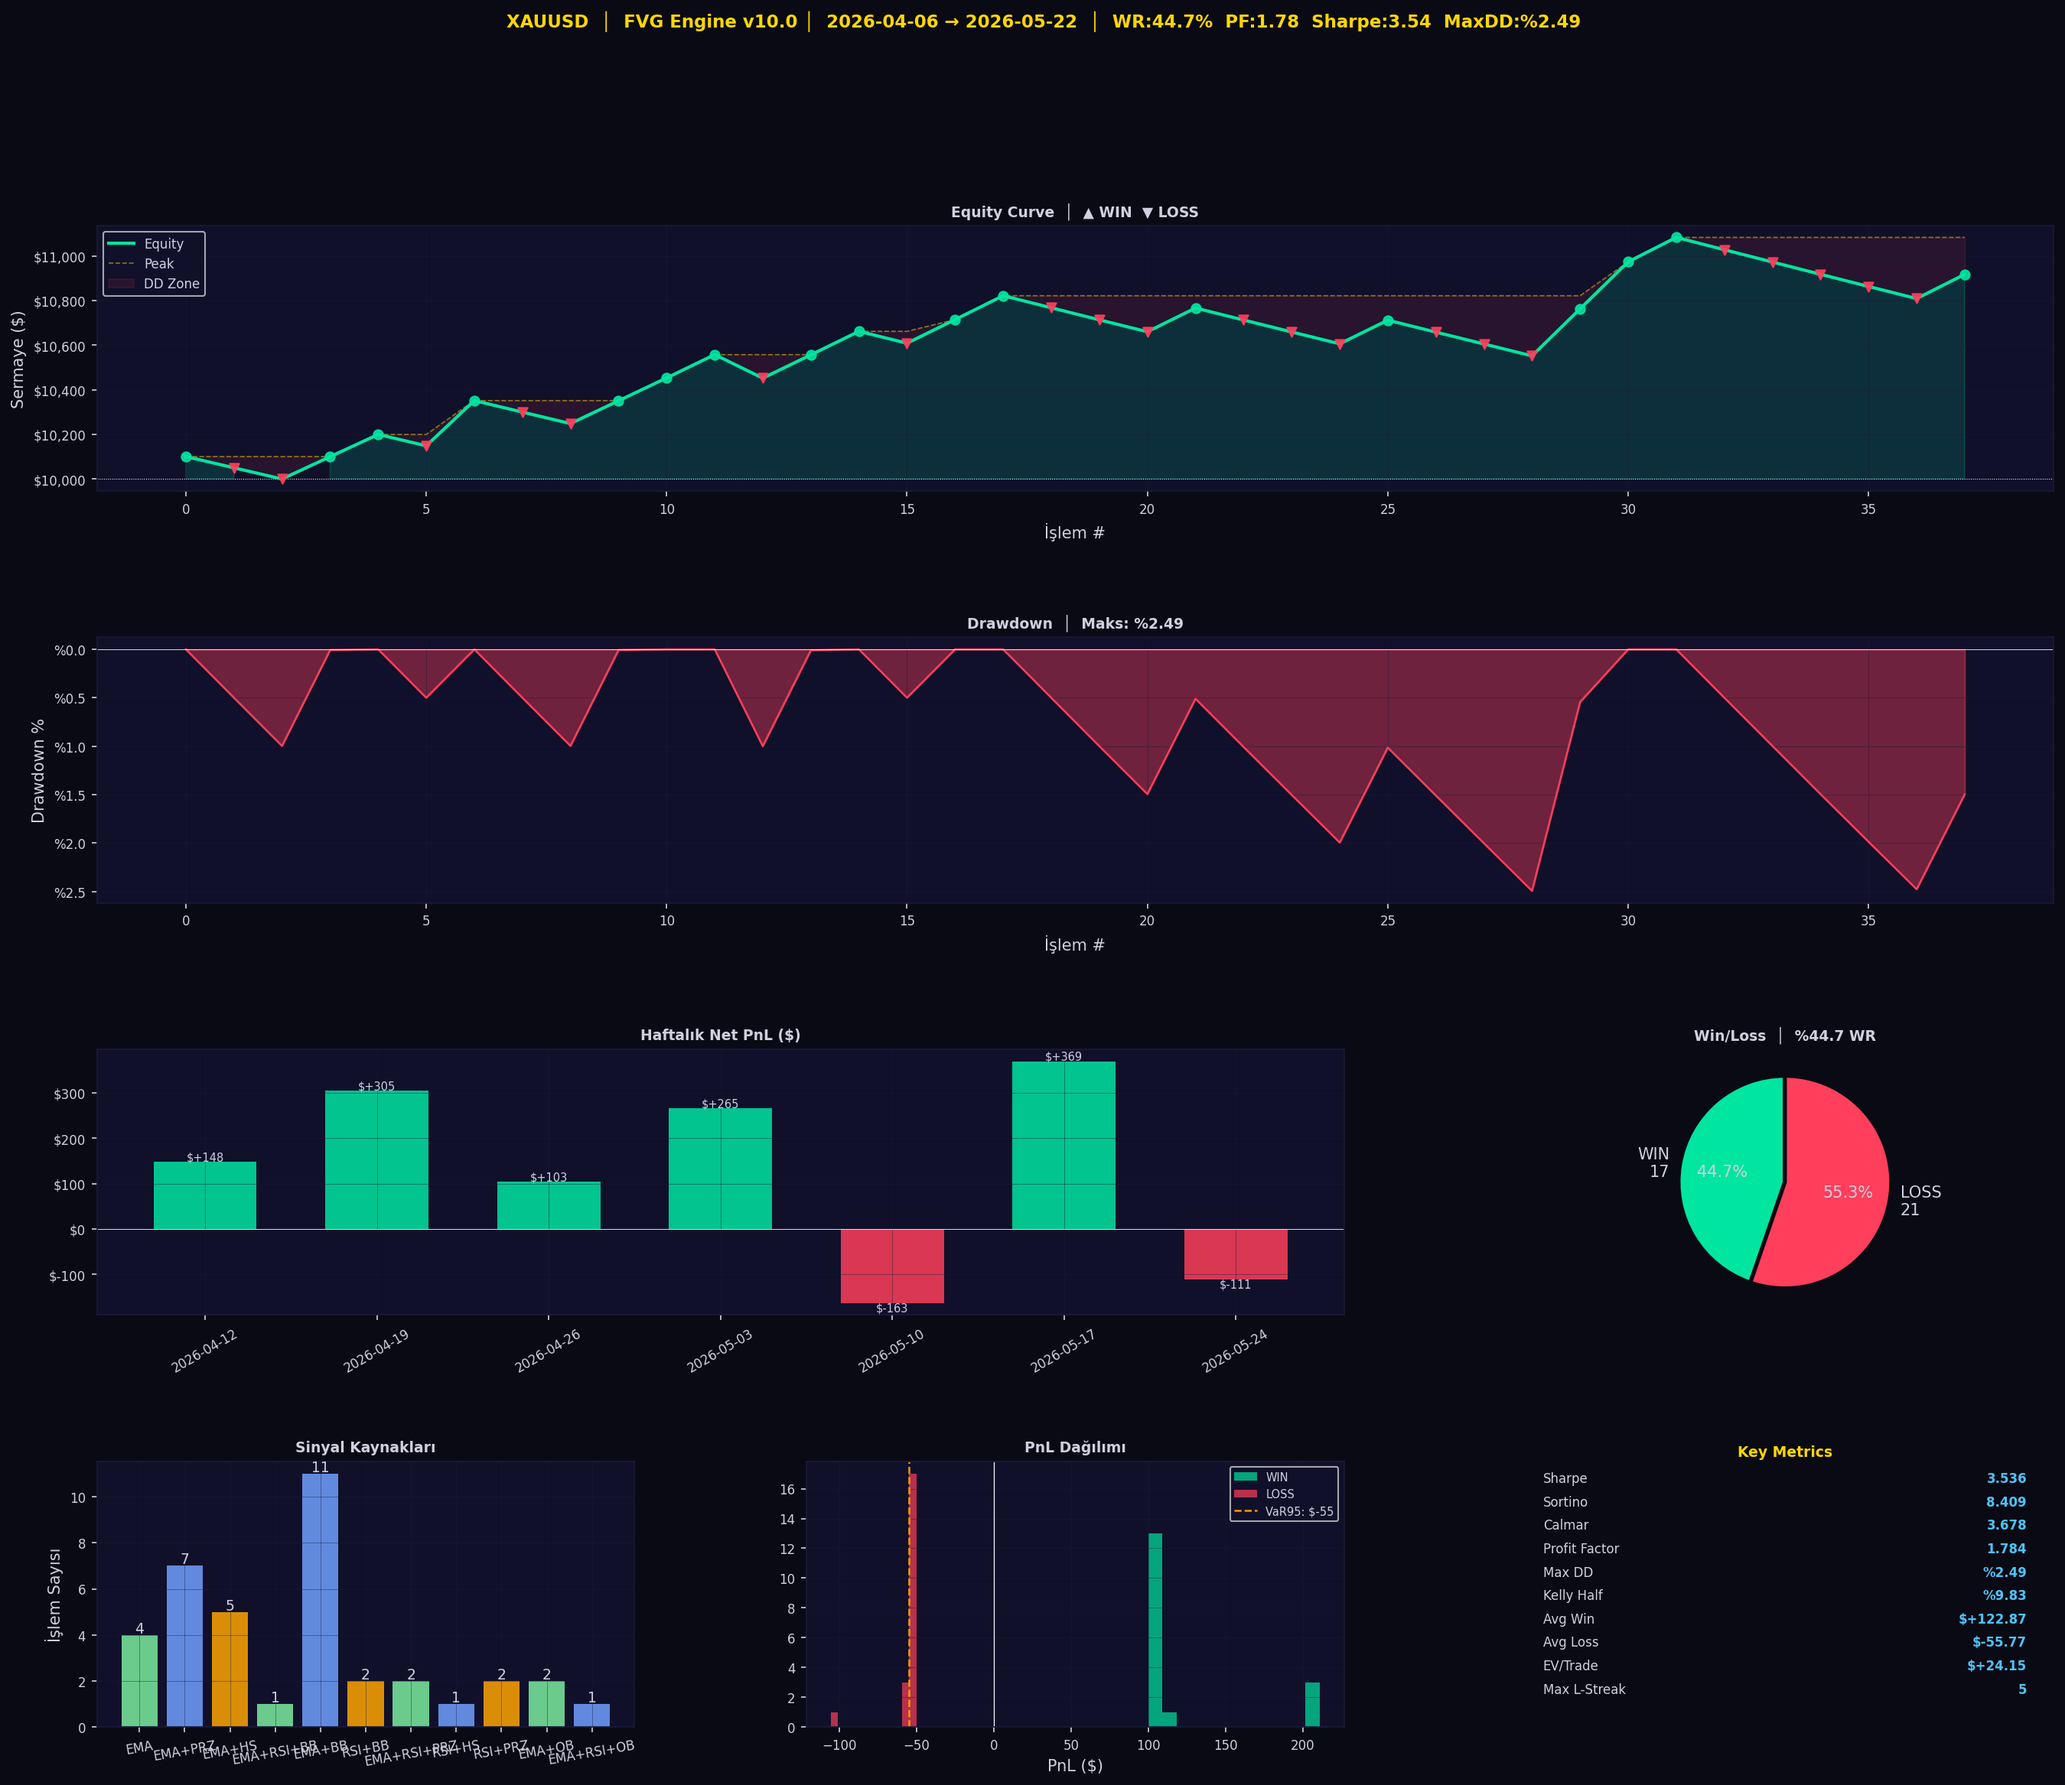
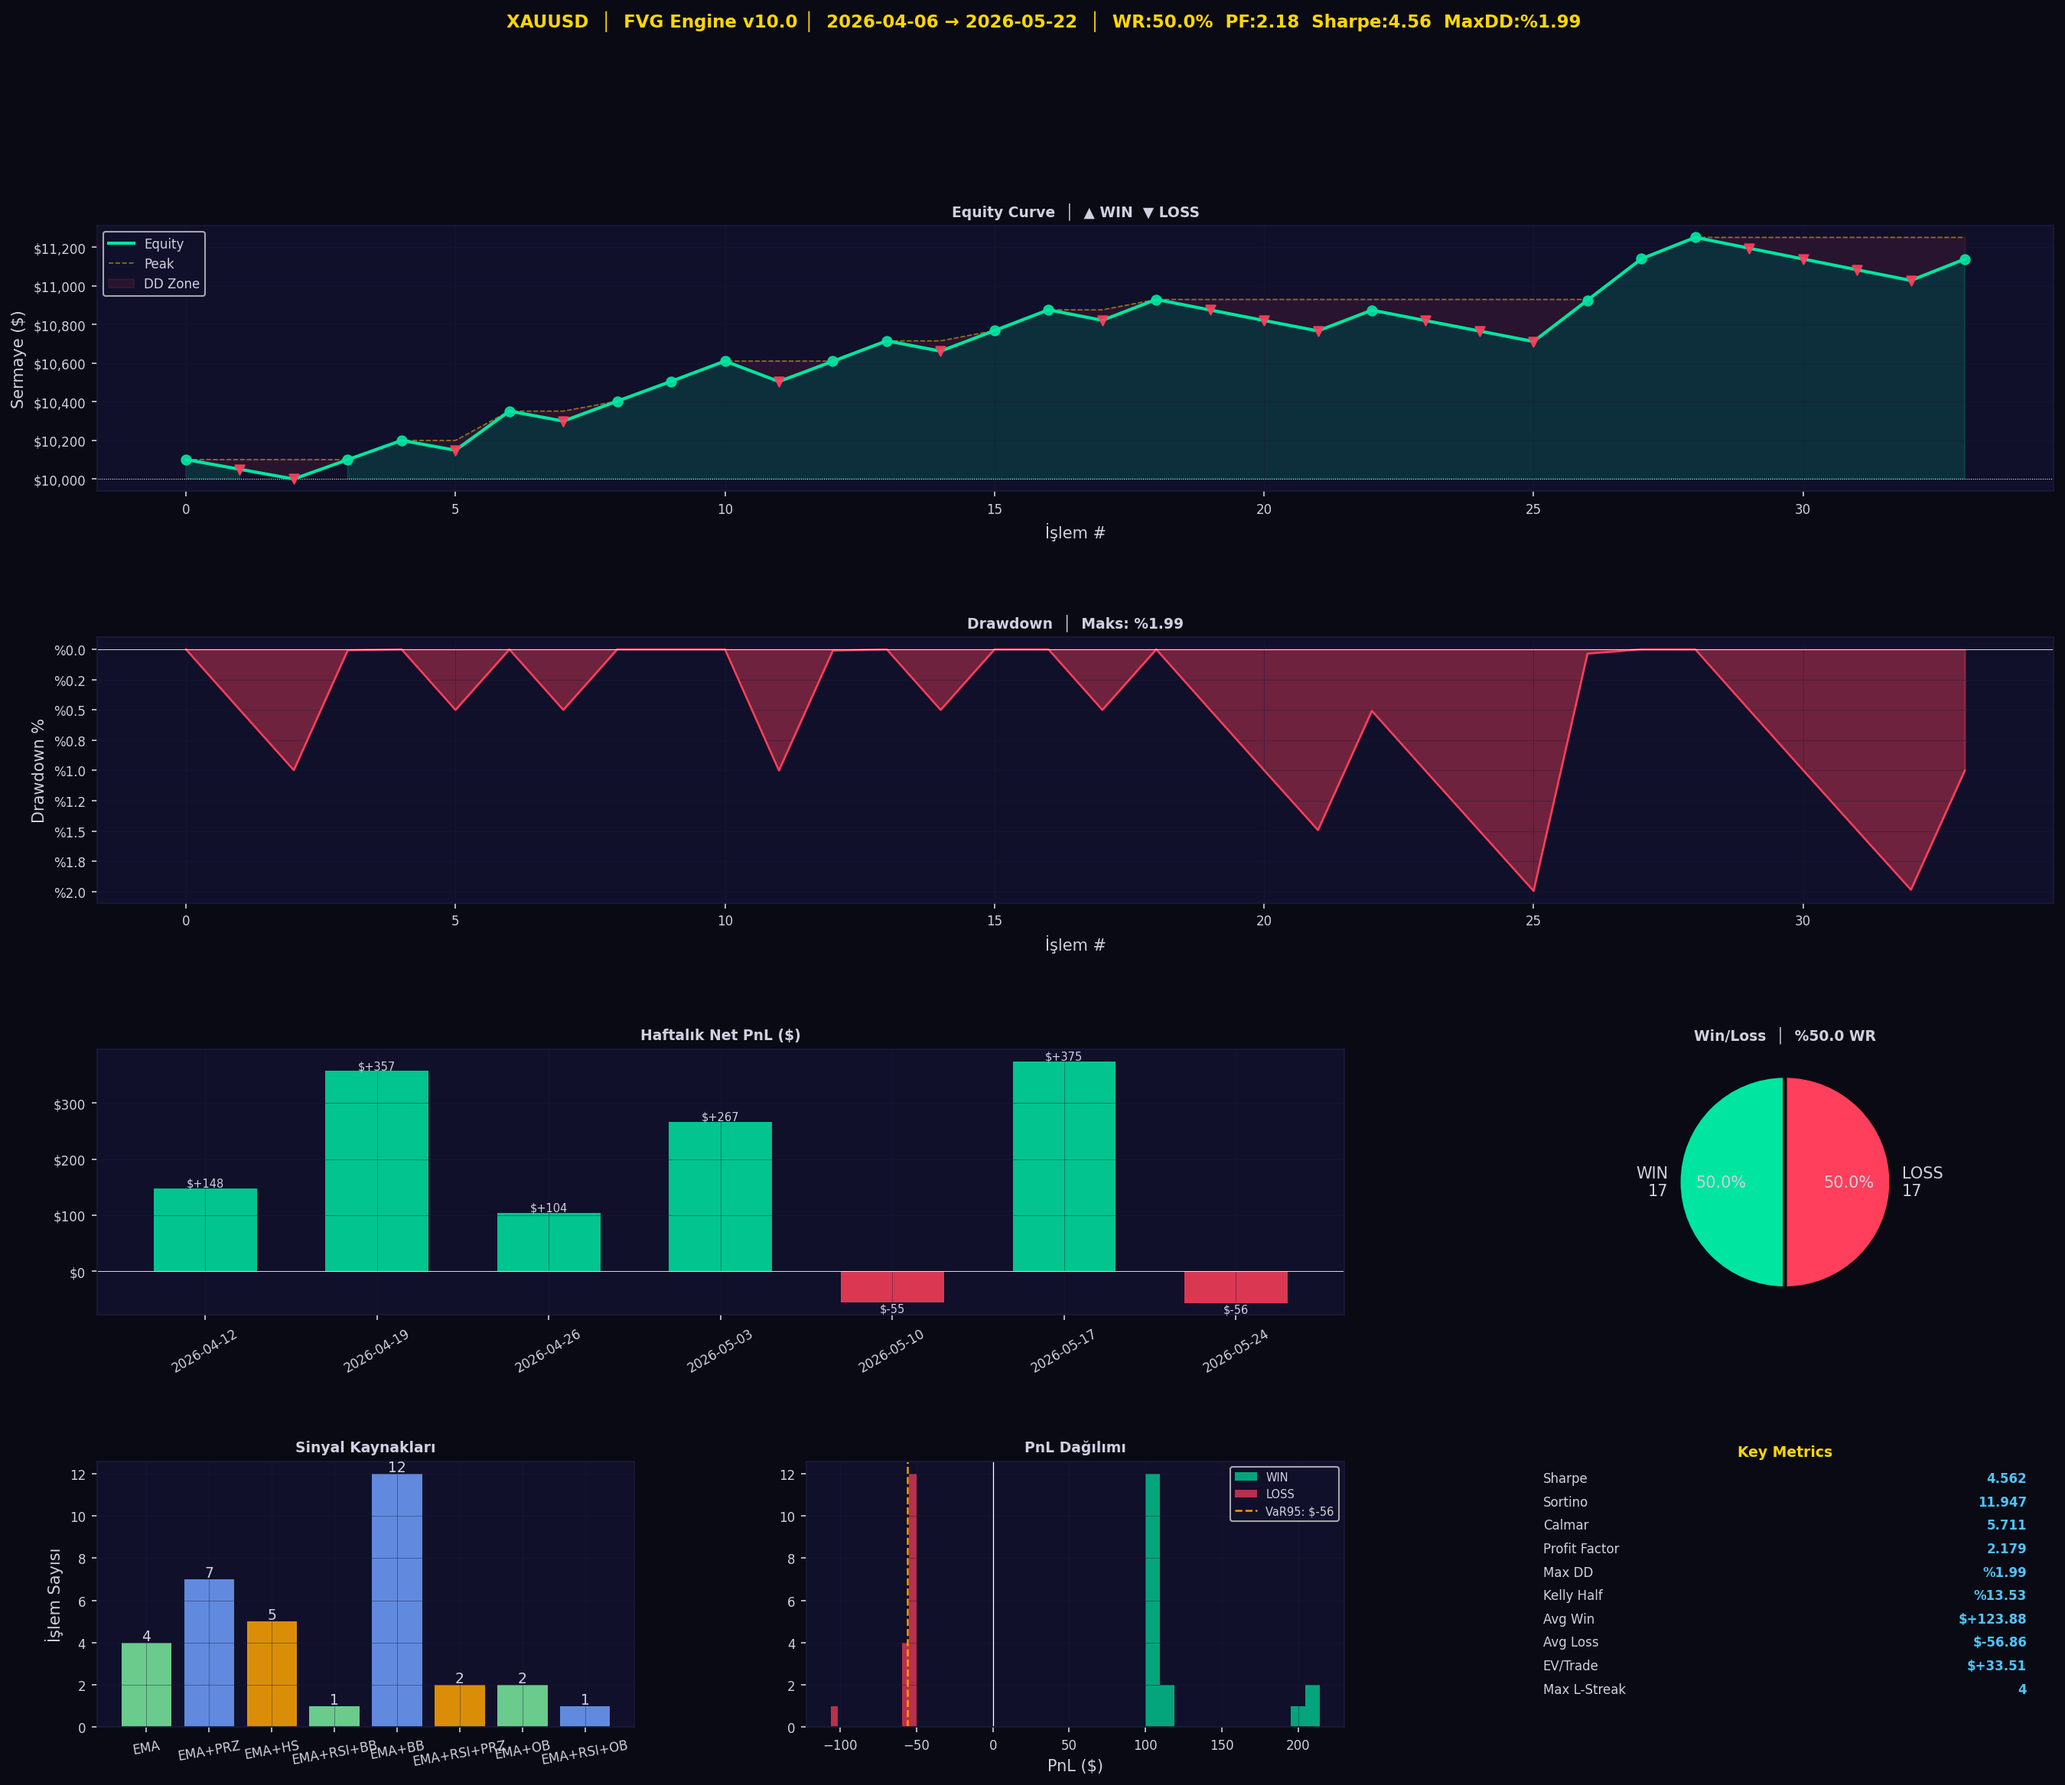
filter: EMA100+200 mandatory (price must be above/below BOTH) + revert period 233→200
Changed bias_main to require ema_ok unconditionally (no longer OR with RSI).
RSI now only affects risk sizing (1R vs 0.5R) but not trade entry gate.
Reverted EMA period from 233 back to 200 (results nearly identical).

Rule: bull trades only when 5M close > EMA100 AND > EMA200.
      bear trades only when 5M close < EMA100 AND < EMA200.

Results (daily 1:2 fix): 38 trades, 55.3% WR, +$1535, Sharpe=5.30
Best: daily 1:1 → 43 trades, 76.7% WR, +$1379, MaxDD=1.00%

https://claude.ai/code/session_01P9iUk1kdRV6S9xwppVeXcb

diff --git a/xauusd_fvg_engine_v10.py b/xauusd_fvg_engine_v10.py
@@ -1635,10 +1635,10 @@ class MarketBrain:
             div_type, div_str = self.rsi_divergence(
                 C[sl_:idx + 1], RSI[sl_:idx + 1], atr_win)
             rsi_ok = (div_type == direction)
-            bias_main = bias_allows and (ema_ok or rsi_ok)
+            # EMA100 ve EMA233 ikisi de kesin şart (price > her iki EMA bull için,
+            # her ikisinin altında bear için). RSI ek konfluens; risk boyutunu etkiler.
+            bias_main = bias_allows and ema_ok
 
-            # Hem gerçek 1H FVG hem harmonik PRZ POI'leri yalnız bias_main
-            # (EMA/RSI + haftalık bias) ile işlem açar. (Senaryo-1 kaldırıldı.)
             if not bias_main:
                 continue                                       # konfluens yok → bekle
             stage = max(stage, 2)
